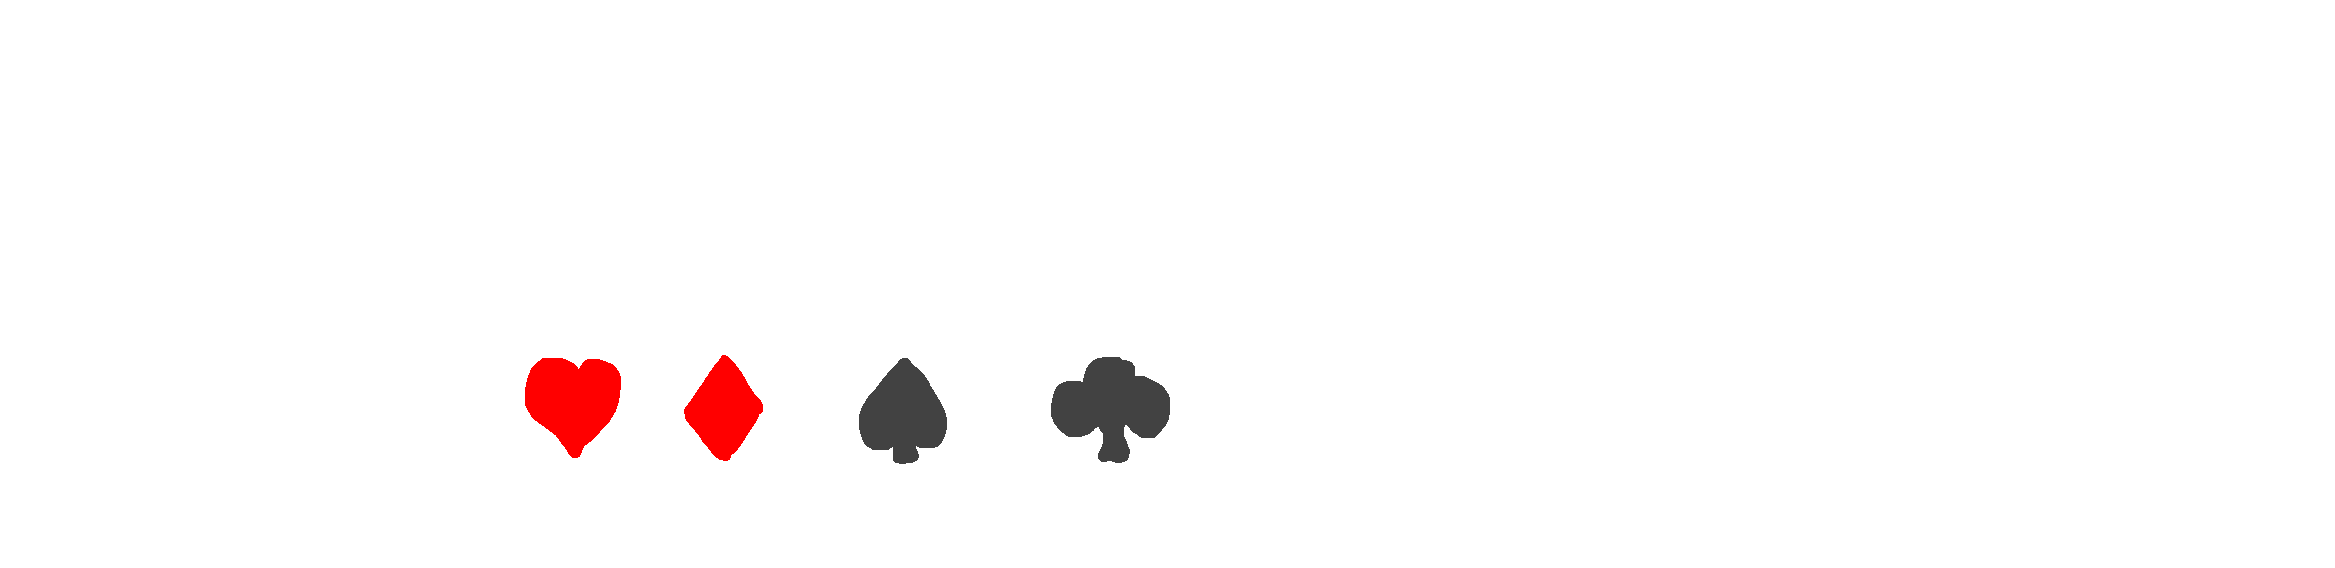
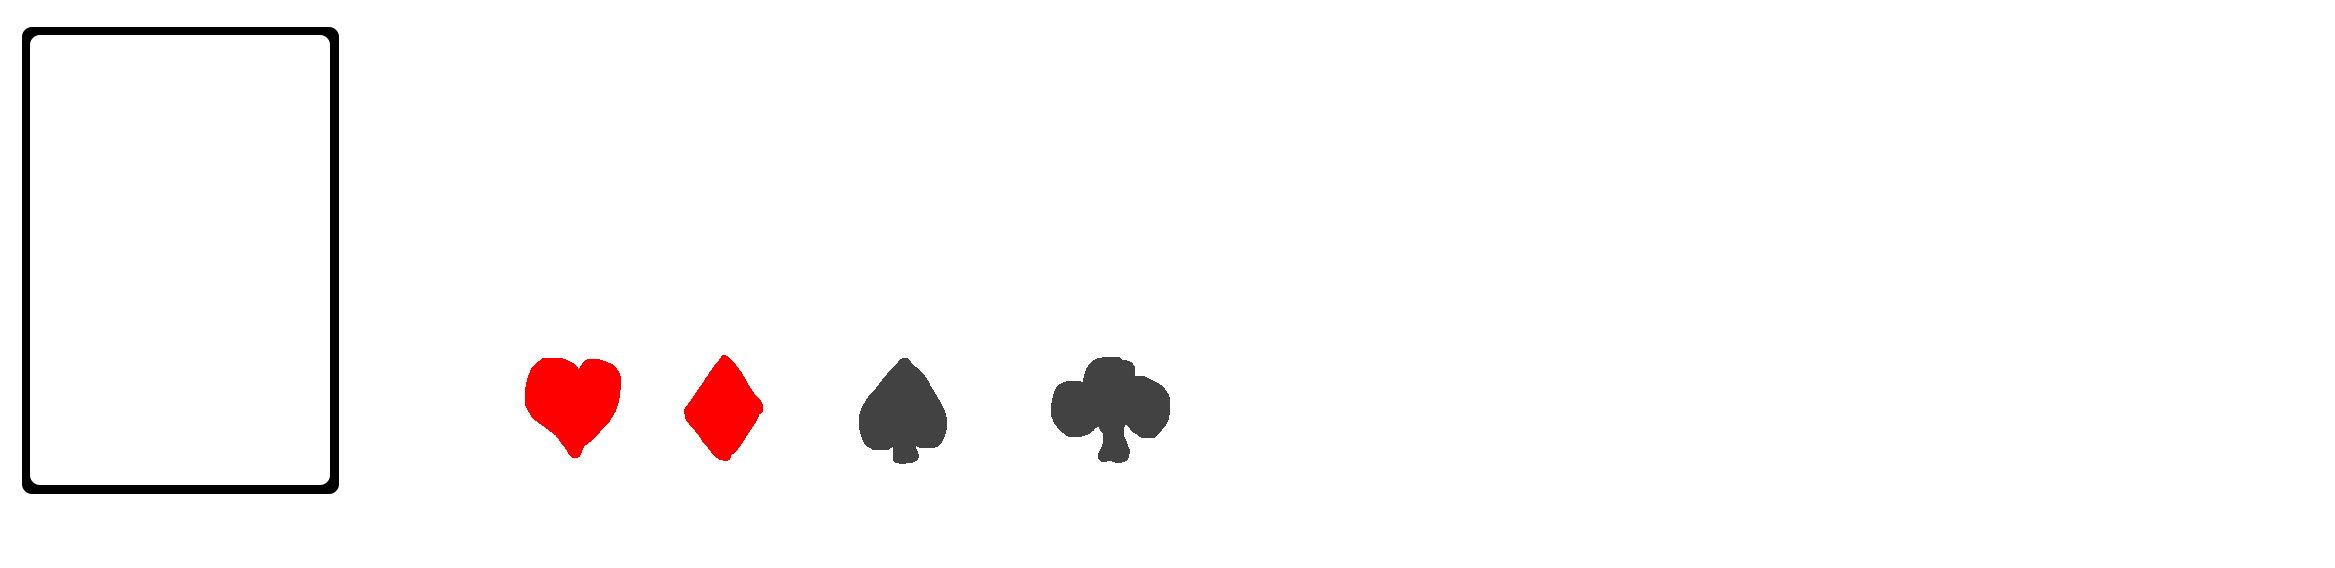
Add rotate anim for card

Changed region(s): [[0.0, 0.0299, 0.1542, 0.868]]

diff --git a/Assets/_Scripts/Cards/CardView.cs b/Assets/_Scripts/Cards/CardView.cs
@@ -1,18 +1,31 @@
+using System;
 using JustGame.Script.Data;
 using UnityEngine;
+using Random = UnityEngine.Random;
 
 namespace JustGame.Script.Card
 {
     public class CardView : MonoBehaviour
     {
         [SerializeField] private CardSpriteContainer m_spriteContainer;
+        [SerializeField] private SpriteRenderer m_cardBodySprite;
         [SerializeField] private SpriteRenderer m_suitSprite;
         [SerializeField] private SpriteRenderer m_kindUpSprite;
         [SerializeField] private Color m_redColor;
         [SerializeField] private Color m_blackColor;
-
-        public void SetView(CardSuit suit, CardRank kind)
+        [Header("Rotate")]
+        [SerializeField] private float m_rotateSpeed;
+        [SerializeField] private float m_maxAngle;
+        private bool m_isIdle;
+        private float m_angle;
+        private bool m_isRotateToRight;
+        
+        public void SetView(int index, CardSuit suit, CardRank kind)
         {
+            m_cardBodySprite.sortingOrder = index * 3;
+            m_suitSprite.sortingOrder = index * 3 + 1;
+            m_kindUpSprite.sortingOrder = index * 3 +2;
+            
             m_suitSprite.sprite = m_spriteContainer.GetSuitSprite(suit);
             m_kindUpSprite.sprite = m_spriteContainer.GetKindSprite(kind);
 
@@ -23,6 +36,34 @@ namespace JustGame.Script.Card
             else
             {
                 m_kindUpSprite.color = m_blackColor;
+            }
+
+            StartRotate();
+        }
+
+        public void StartRotate()
+        {
+            m_angle = Random.Range(-m_maxAngle, m_maxAngle);
+            m_isRotateToRight = Random.Range(0, 2) == 0;
+            m_isIdle = true;
+        }
+        
+        public void StopRotate()
+        {
+            m_isIdle = false;
+            transform.rotation = Quaternion.AngleAxis(0, Vector3.forward);
+        }
+        
+
+        private void Update()
+        {
+            if (!m_isIdle) return;
+            
+            transform.rotation = Quaternion.AngleAxis(m_angle, Vector3.forward);
+            m_angle += m_rotateSpeed * Time.deltaTime * (m_isRotateToRight ? 1: -1);
+            if (Mathf.Abs(m_angle) >= m_maxAngle)
+            {
+                m_isRotateToRight = !m_isRotateToRight;
             }
         }
     }

diff --git a/Assets/_Scripts/Cards/CardController.cs b/Assets/_Scripts/Cards/CardController.cs
@@ -56,7 +56,7 @@ namespace JustGame.Script.Card
         
         public void Show()
         {
-            m_cardView.SetView(m_suit, m_kind);
+            m_cardView.SetView(m_index,m_suit, m_kind);
         }
 
         public void ShowScore()
@@ -67,6 +67,8 @@ namespace JustGame.Script.Card
                     m_scoreText.text = string.Empty;
                 });
             m_scoreText.text = GetScore().ToString();
+            
+            m_cardView.StopRotate();
         }
 
         private int GetScore()
@@ -110,12 +112,8 @@ namespace JustGame.Script.Card
             transform.DOLocalMoveY(curPosY + (m_isSelected ? 1:-1), 0.3f).SetUpdate(true);
         
             OnSelectCard?.Invoke(m_index,m_isSelected,m_suit,m_kind);
-        }
-
-        public void ReturnCard()
-        {
-            transform.DOShakeRotation(0.3f, 50, 30, 45, randomnessMode: ShakeRandomnessMode.Harmonic).
-                OnComplete(DeselectCard);
+            
+            m_cardView.StartRotate();
         }
 
         private void OnMouseDown()
@@ -129,6 +127,15 @@ namespace JustGame.Script.Card
             transform.DOLocalMoveY(curPosY + (m_isSelected ? 1:-1), 0.3f).SetUpdate(true);
             
             OnSelectCard?.Invoke(m_index,m_isSelected,m_suit,m_kind);
+
+            if (m_isSelected)
+            {
+                m_cardView.StopRotate();
+            }
+            else
+            {
+                m_cardView.StartRotate();
+            }
         }
     }
 }
